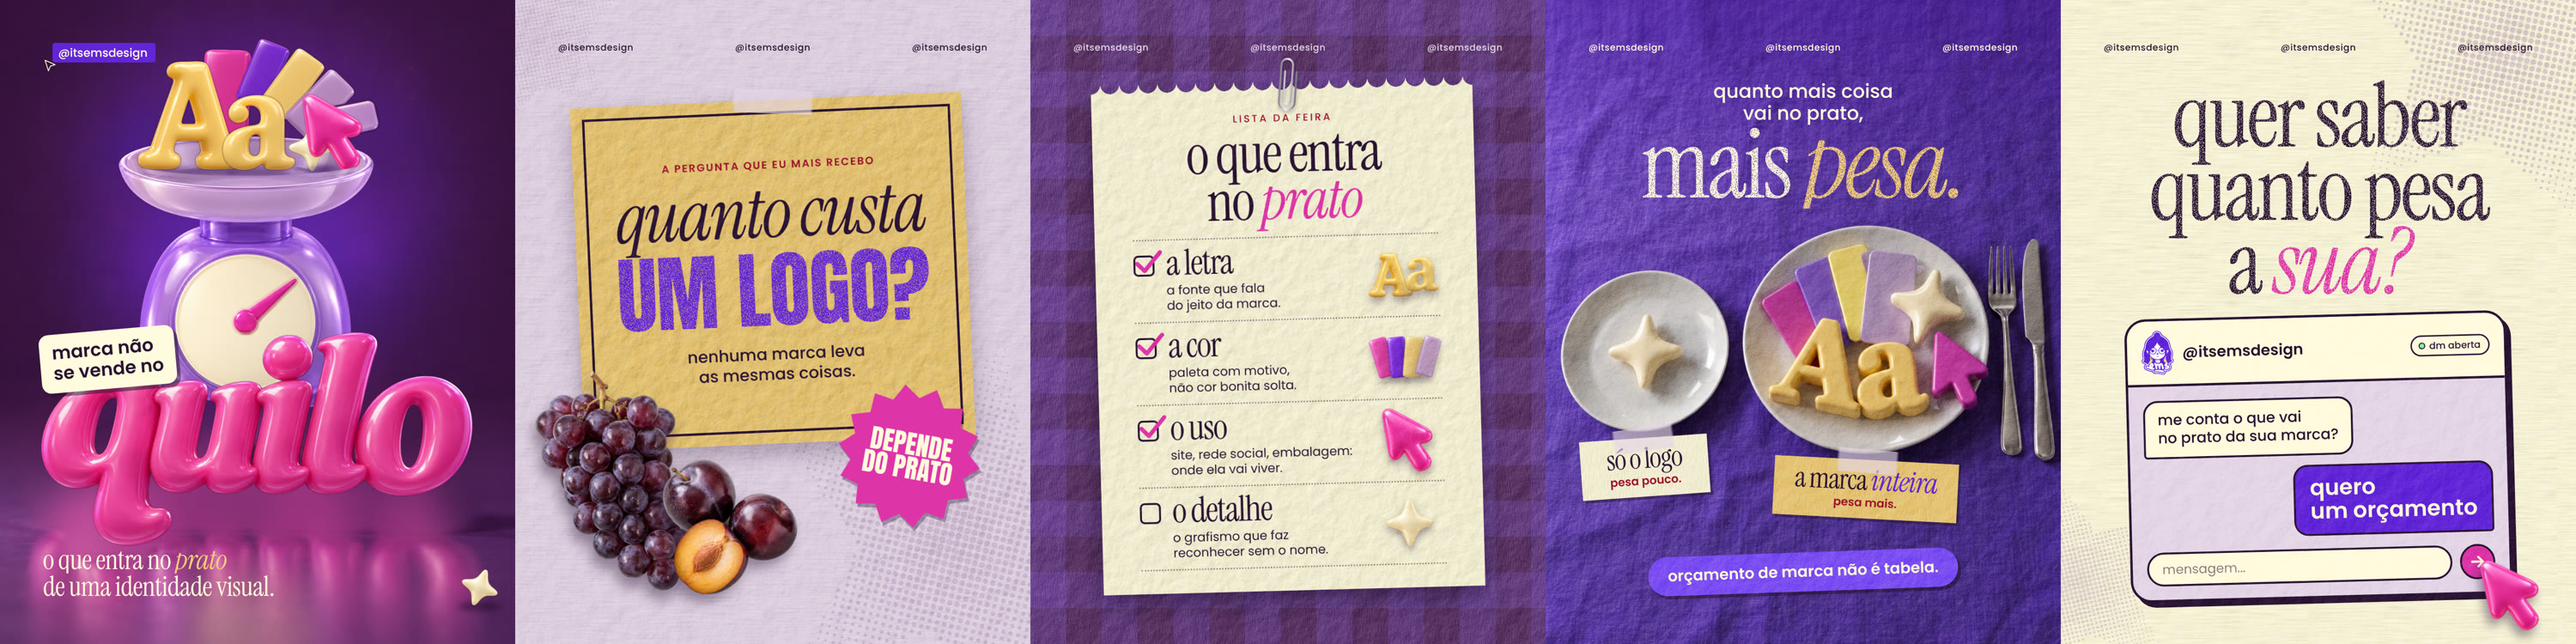
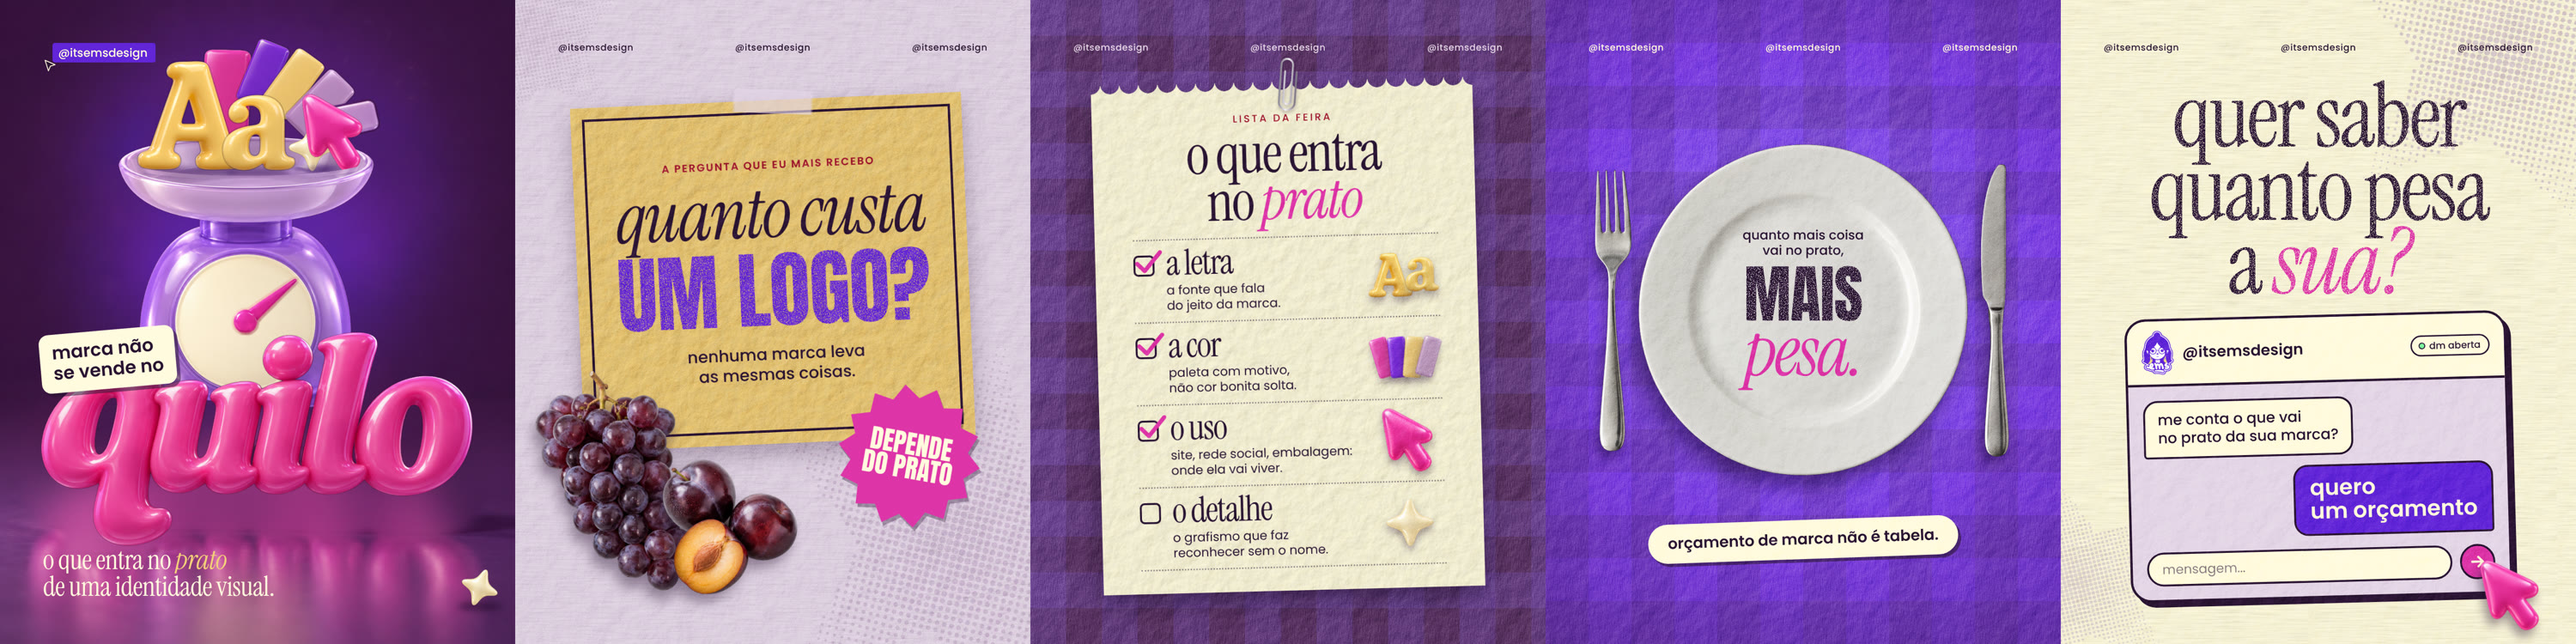
EMS quilo: slide 4 definido como a frase no prato, com o prato menor e o texto centrado nele
Claude-Session: https://claude.ai/code/session_01CmCiK8vXoD4pXXU5H6drbd

Changed region(s): [[0.589, 0.0, 0.806, 1.0]]

diff --git a/Emi/ems-serie-preco/projeto/laminas-quilo.html b/Emi/ems-serie-preco/projeto/laminas-quilo.html
@@ -119,62 +119,22 @@ const L={
   </div>
   ${clipe(520,120,4)}`},
 
-/* 04 · a virada — cena de verdade: dois pratos de louça na toalha de linho, só a estrela num e tudo no outro (imagem gerada como cena única,
-   peças assentadas no prato). O título vai no terço de cima; cada prato ganha a sua etiqueta de papel; o apoio vai num adesivo embaixo. */
-4:()=>`<img class="abs" src="cenas/fotos/dois-pratos.png" style="left:0;top:0;width:1080px;height:1350px;clip-path:inset(0 0 calc(100% - 3px) 0);transform-origin:50% 0;transform:scaleY(30)">
-  <img class="abs" src="cenas/fotos/dois-pratos.png" style="left:0;top:76px;width:1080px;height:1350px">
-  <div class="abs" style="left:0;right:0;top:0;height:420px;background:linear-gradient(rgba(74,26,158,.55),rgba(74,26,158,0))"></div>
-  ${cab(css('ivory'))}
-  <div class="abs" data-centro style="left:0;right:0;top:168px;text-align:center;font:500 40px/1.16 Poppins;color:var(--ivory)">quanto mais coisa<br>vai no prato,</div>
-  <div class="abs serif gasto" data-centro style="left:0;right:0;top:252px;text-align:center;font-size:206px;line-height:.9;color:var(--ivory)">mais <em style="color:var(--manteiga)">pesa.</em></div>
-  <div class="abs" data-bloco style="left:74px;top:918px;width:268px;background:var(--ivory);color:var(--tinta);padding:16px 10px 18px;text-align:center;transform:rotate(-4deg);box-shadow:5px 6px 0 rgba(42,20,51,.5)">
-    <div class="abs" style="inset:0;background-image:var(--tx-fibras);background-size:400px;mix-blend-mode:multiply;opacity:.3"></div>
-    <span data-centro class="serif" style="position:relative;display:block;font-size:60px;line-height:.9">só o logo</span><span data-centro style="position:relative;display:block;font:600 24px/1.2 Poppins;color:var(--wine);margin-top:6px">pesa pouco.</span></div>
-  <div class="abs" data-bloco style="left:478px;top:964px;width:386px;background:var(--manteiga);color:var(--tinta);padding:16px 10px 18px;text-align:center;transform:rotate(3deg);box-shadow:5px 6px 0 rgba(42,20,51,.5)">
-    <div class="abs" style="inset:0;background-image:var(--tx-fibras);background-size:400px;mix-blend-mode:multiply;opacity:.3"></div>
-    <span data-centro class="serif" style="position:relative;display:block;font-size:60px;line-height:.9">a marca <em style="color:var(--violeta)">inteira</em></span><span data-centro style="position:relative;display:block;font:600 24px/1.2 Poppins;color:var(--wine);margin-top:6px">pesa mais.</span></div>
-  ${fita(140,896,-8,130)}${fita(610,942,5,130)}
-  <div class="abs" data-bloco style="left:215px;top:1158px;width:650px;background:var(--violeta-2);color:var(--ivory);border-radius:999px;padding:24px 20px 26px;text-align:center;font:600 32px/1 Poppins;transform:rotate(-2deg);box-shadow:6px 7px 0 rgba(42,20,51,.6)"><span data-centro>orçamento de marca não é tabela.</span></div>`,
-
-/* 04 · alternativa A — a frase servida dentro do prato: prato de louça de verdade visto de cima, garfo e faca, e o texto no fundo do prato
-   (ref @carolrech, a lâmina do círculo com caixa-alta). Um elemento só, bem no centro. */
-'4a':()=>`<div class="abs" style="inset:0;background:radial-gradient(ellipse 90% 70% at 50% 45%,#7b4df2 0,#6225d8 55%,#4a1a9e 100%)"></div>
+/* 04 · a virada — a frase servida dentro do prato: prato de louça de verdade visto de cima, garfo e faca, sobre toalha xadrez
+   (ref @carolrech, a lâmina do círculo com caixa-alta). Escolhida pela Emi em 15/11 entre três opções; as outras duas estão em entrega/quilo/opcoes-slide4.
+   O prato tem respiro em volta; o texto é uma coluna centrada no meio exato do prato. */
+4:()=>`<div class="abs" style="inset:0;background:radial-gradient(ellipse 90% 70% at 50% 45%,#7b4df2 0,#6225d8 55%,#4a1a9e 100%)"></div>
   <div class="abs" style="inset:0;background-image:linear-gradient(rgba(42,20,51,.16) 50%,transparent 50%),linear-gradient(90deg,rgba(42,20,51,.16) 50%,transparent 50%);background-size:180px 180px"></div>
   <div class="abs" style="inset:0;background-image:var(--tx-fibras);background-size:420px;mix-blend-mode:soft-light;opacity:.7"></div>
   ${cab(css('ivory'))}
-  <img class="abs" src="cenas/fotos/garfo-rec.png" style="left:24px;top:330px;height:700px;filter:drop-shadow(-8px 14px 12px rgba(30,8,60,.5))">
-  <img class="abs" src="cenas/fotos/faca-rec.png" style="left:978px;top:316px;height:730px;filter:drop-shadow(-8px 14px 12px rgba(30,8,60,.5))">
-  <img class="abs" src="cenas/fotos/prato-vazio-rec.png" style="left:120px;top:228px;width:840px;filter:drop-shadow(-14px 26px 22px rgba(30,8,60,.55))">
-  <div class="abs" data-bloco data-miolo style="left:290px;top:384px;width:500px;height:500px;display:flex;flex-direction:column;align-items:center;justify-content:center;text-align:center;color:var(--tinta)">
-    <div data-centro style="font:500 31px/1.18 Poppins">quanto mais coisa<br>vai no prato,</div>
-    <div class="anton gasto" data-centro style="font-size:160px;line-height:1;margin-top:10px">mais</div>
-    <div class="serif" data-centro style="font-size:186px;line-height:.9;margin-top:-22px;color:var(--pink)"><em>pesa.</em></div>
+  <img class="abs" src="cenas/fotos/garfo-rec.png" style="left:104px;top:356px;height:590px;filter:drop-shadow(-8px 14px 12px rgba(30,8,60,.5))">
+  <img class="abs" src="cenas/fotos/faca-rec.png" style="left:912px;top:344px;height:614px;filter:drop-shadow(-8px 14px 12px rgba(30,8,60,.5))">
+  <img class="abs" src="cenas/fotos/prato-vazio-rec.png" style="left:195px;top:303px;width:690px;height:694px;filter:drop-shadow(-12px 24px 20px rgba(30,8,60,.55))">
+  <div class="abs" data-bloco data-miolo style="left:300px;top:404px;width:480px;height:480px;display:flex;flex-direction:column;align-items:center;justify-content:center;text-align:center;color:var(--tinta)">
+    <div data-centro style="font:500 27px/1.18 Poppins">quanto mais coisa<br>vai no prato,</div>
+    <div class="anton gasto" data-centro style="font-size:132px;line-height:1.06;margin-top:6px">mais</div>
+    <div class="serif" data-centro style="font-size:150px;line-height:1;margin-top:-26px;color:var(--pink)"><em>pesa.</em></div>
   </div>
-  <div class="abs" data-bloco style="left:215px;top:1132px;width:650px;background:var(--ivory);color:var(--tinta);border-radius:999px;padding:24px 20px 26px;text-align:center;font:600 32px/1 Poppins;transform:rotate(-2deg);box-shadow:6px 7px 0 rgba(42,20,51,.6)"><span data-centro>orçamento de marca não é tabela.</span></div>`,
-
-/* 04 · alternativa B — duas comandas lado a lado: a de quem pede só o logo é curtinha, a da marca inteira é comprida.
-   O tamanho do papel é o argumento (refs dos bilhetes e do bloquinho). Sem foto e sem 3D. */
-'4b':()=>{const serr='-webkit-mask:linear-gradient(#000 0 0) top/100% calc(100% - 16px) no-repeat,conic-gradient(from -45deg at 50% 100%,#0000 0 90deg,#000 0) bottom/32px 16px repeat-x;mask:linear-gradient(#000 0 0) top/100% calc(100% - 16px) no-repeat,conic-gradient(from 135deg at 50% 0,#000 0 90deg,#0000 0) bottom/32px 16px repeat-x';
-  const linha=(t)=>`<div style="display:flex;align-items:center;gap:14px;padding:11px 0;border-top:3px dotted rgba(42,20,51,.45);font:500 29px/1 Poppins"><svg width="34" height="30" viewBox="0 0 64 60"><path d="M8 30 L24 46 L58 6" fill="none" stroke="${css('pink')}" stroke-width="10" stroke-linecap="round" stroke-linejoin="round"/></svg>${t}</div>`;
-  const comanda=(x,y,w,r,titulo,itens,peso)=>`<div class="abs" data-bloco style="left:${x}px;top:${y}px;width:${w}px;transform:rotate(${r}deg);filter:drop-shadow(0 18px 20px rgba(30,8,60,.45))">
-    <div style="position:relative;background:var(--ivory);color:var(--tinta);${serr}">
-      <div class="abs" style="inset:0;background-image:var(--tx-relevo);background-size:620px;mix-blend-mode:multiply;opacity:.34"></div>
-      <div data-miolo style="position:relative;padding:58px 34px 48px;text-align:center">
-        <div data-centro style="font:500 18px/1 Poppins;letter-spacing:.2em;text-transform:uppercase;color:var(--wine)">comanda</div>
-        <div class="serif" data-centro style="font-size:64px;line-height:.9;margin-top:10px">${titulo}</div>
-        <div style="margin-top:20px;text-align:left">${itens.map(linha).join('')}</div>
-        <div style="border-top:4px dashed var(--tinta);margin-top:4px;padding-top:16px;display:flex;justify-content:space-between;align-items:baseline;font:600 24px/1 Poppins"><span>peso</span><span class="serif" style="font-size:48px;line-height:.8;color:var(--violeta)"><em>${peso}</em></span></div>
-      </div></div></div>`;
-  return `<div class="abs" style="inset:0;background:radial-gradient(ellipse 90% 70% at 50% 30%,#7b4df2 0,#6225d8 52%,#4a1a9e 100%)"></div>
-  <img class="abs" src="${estrelaReticula(820,css('violeta-2'))}" style="left:480px;top:-300px;width:820px;opacity:.55;transform:rotate(16deg)">
-  <img class="abs" src="${estrelaReticula(620,css('violeta-2'))}" style="left:-260px;top:940px;width:620px;opacity:.45;transform:rotate(-16deg)">
-  ${cab(css('ivory'))}
-  <div class="abs" data-centro style="left:0;right:0;top:166px;text-align:center;font:500 40px/1.16 Poppins;color:var(--ivory)">quanto mais coisa<br>vai no prato,</div>
-  <div class="abs serif gasto" data-centro style="left:0;right:0;top:256px;text-align:center;font-size:206px;line-height:.9;color:var(--ivory)">mais <em style="color:var(--manteiga)">pesa.</em></div>
-  ${comanda(96,520,372,-3,'só o logo',['o logo'],'leve')}
-  ${comanda(520,500,464,2,'a marca <em style="color:var(--pink)">inteira</em>',['o logo','a letra','a cor','o uso','o detalhe'],'bem mais')}
-  ${clipe(120,470,-10)}${clipe(900,450,9)}
-  <div class="abs" data-bloco style="left:96px;top:1010px;width:372px;text-align:center;font:600 31px/1.2 Poppins;color:var(--ivory)"><span data-centro>orçamento de marca<br>não é tabela.</span></div>`},
+  <div class="abs" data-bloco style="left:215px;top:1090px;width:650px;background:var(--ivory);color:var(--tinta);border-radius:999px;padding:24px 20px 26px;text-align:center;font:600 32px/1 Poppins;transform:rotate(-2deg);box-shadow:6px 7px 0 rgba(42,20,51,.6)"><span data-centro>orçamento de marca não é tabela.</span></div>`,
 
 /* 05 · a chamada — a conversa de dm já começada: o selo da Emi de avatar, a pergunta dela, a resposta pronta da pessoa e o cursor no botão de enviar.
    O objetivo é a pessoa pedir orçamento. Elementos da marca: selo (inteiro, reto, sem recolorir), chip "disponível", cursor. */
